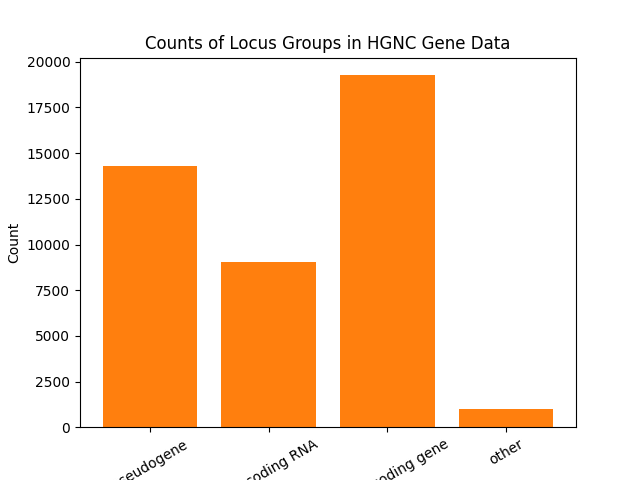
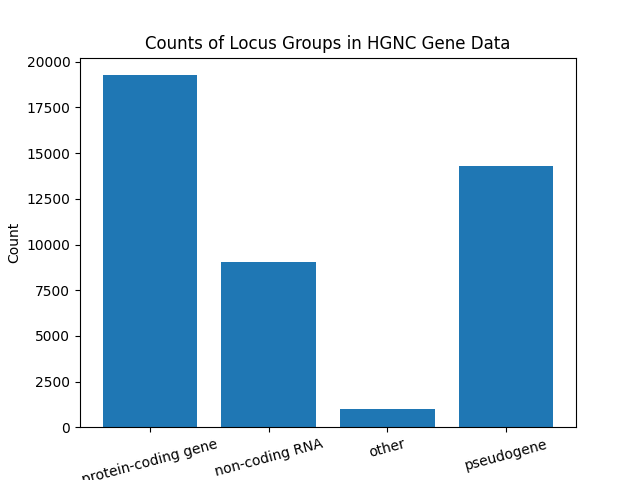
readme done

diff --git a/homework08/README.md b/homework08/README.md
@@ -1,4 +1,4 @@
-# Homework 07: Gene Data App Service
+# Homework 08: Gene Data App Service
 
 The Human Genome Organization (HUGO) is a non-profit which oversees the HUGO Gene Nomenclature Committee (HGNC). 
 
@@ -13,7 +13,7 @@ Install this project by cloning the repository and creating a folder to store da
 ```bash
 git clone https://github.com/JakeWendling/COE332.git
 cd COE332
-cd homework07
+cd homework08
 ```
 
 ## Creating the Docker Container
@@ -45,6 +45,7 @@ This code has several functions:
 1. Return the entire data set in dictionary format.
 2. Return a list of the genes availble.
 3. Return a dictionary of gene data for a specific gene.
+4. Return a graph of certain data.
 
 To perform these functions:
 
@@ -126,6 +127,39 @@ This will give the following:
           "CCDS12976"
 	    ],
 	    ...
+```
+
+#### To request a bar graph of the locus groups:
+```
+curl -X POST jakew57-test-flask-service:5000/image
+```
+Then you can download the image into the python pod:
+```
+curl jakew57-test-flask-service:5000/image
+```
+Copy the name of the pod from the prompt:
+```
+root@<pod_name>:/#
+```
+For example:
+```
+root@py-debug-deployment-f484b4b99-xtfsc:/#
+py-debug-deployment-f484b4b99-xtfsc
+```
+Then you can download the image onto your machine after exiting the pod:
+```
+exit
+kubectl cp <pod_name>:plot.png ./plot.png 
+```
+For example:
+```
+kubectl cp py-debug-deployment-f484b4b99-xtfsc:plot.png ./plot.png
+```
+You can now view the graph on your computer.
+
+To remove the image from the redis database:
+```
+curl -X DELETE jakew57-test-flask-service:5000/image
 ```
 
 ## Turning Off the Application:
